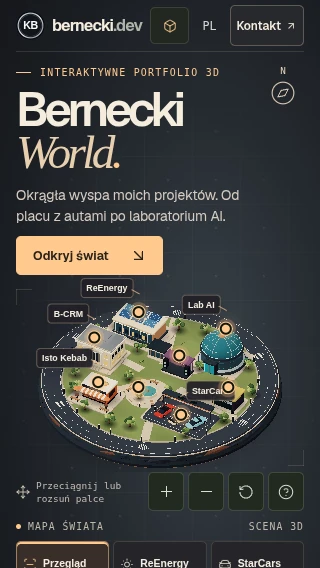
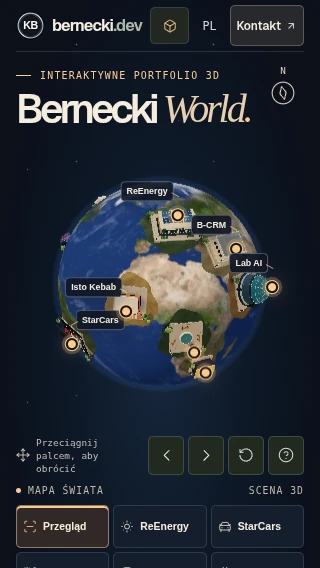
Record globe controls, asset credits and verified screenshots

diff --git a/QUALITY_GATE.md b/QUALITY_GATE.md
@@ -1,41 +1,36 @@
 # Bernecki World — bramka jakości
 
-**92/100.** Ocena obejmuje przebudowaną, okrągłą wyspę. W galerii zrzutów są kadry ze wszystkich sześciu rozdzielczości oraz zbliżenia miejsc. [Kadry z buildu produkcyjnego](docs/world/README.md#kadry-z-buildu-produkcyjnego)
+**92/100.** Ocena dotyczy wydania z globem 3D, obrotem wokół jego środka i zbliżeniem po wybraniu miejsca. [Kadry produkcyjne](docs/world/README.md#kadry-z-buildu-produkcyjnego)
 
 | Obszar | Ocena | Podstawa |
 | --- | ---: | --- |
-| Kierunek artystyczny | 14/15 | Okrągła podstawa, kamień, asfalt, metal i ciepłe oznaczenia tworzą spójną makietę. Rozkład miejsc sprawdzono na sześciu rozdzielczościach. |
-| Efekt pierwszego wejścia | 14/15 | Pierwszy kadr pokazuje całą wyspę. Panele słoneczne, auta, budka i kopuła są czytelne już z góry. |
-| Świat 3D | 15/15 | Sześć projektów ma osobne modele i kadry. Laboratorium i poruszający się pluszak mają własne miejsca. Każdą główną lokalizację można otworzyć bezpośrednio z modelu. |
-| Animacja i kamera | 13/15 | Osobne ujęcia projektów, reset do widoku wyspy i śledzenie pozycji pluszaka sprawdzono w przeglądarce. Ruch na desktopie bez GPU jest skokowy. |
-| Interakcje i UX | 10/10 | Kliknięcia modeli, etykiety, mapa, skróty klawiaturowe, karty i wybór sposobu przeglądania działają w testach. |
-| Mobile | 9/10 | Obrót dotykiem, pinch, otwieranie kart i widok statyczny sprawdzono. Przy szerokości 320 px dalsza część mapy wymaga przewinięcia. |
-| Wydajność i stabilność | 7/10 | Jedna tekstura szyldów, scalone powierzchnie, niższa rozdzielczość podczas ruchu na wolnym sprzęcie i pełny widok statyczny. Profil Pixel 7 osiągnął około 25 FPS, a profil iPhone 13 około 54 FPS. |
-| Oryginalność i marka | 5/5 | Autorska makieta z rozpoznawalnymi miejscami dla projektów i pluszową postacią autora. |
-| Funkcjonalność biznesowa | 5/5 | Sześć rzeczywistych projektów, potwierdzone opisy, materiały i linki. ReEnergy ma osobne ścieżki do strony, kampanii i CRM. |
-
-Niezależny przegląd porównał makietę, kadry poszczególnych miejsc i telefon. Po przeglądzie skorygowano prowadzenie kamery za pluszakiem i położenie etykiet mobilnych oraz sprawdzono nową grafikę statyczną.
+| Kierunek artystyczny | 14/15 | Ciemne tło, satelitarna mapa z chmurami i atmosfera kuli. Siedem kadrów sprawdzono w rzeczywistej przeglądarce. |
+| Efekt pierwszego wejścia | 14/15 | Cała planeta w środku kadru, z rozpoznawalnymi miejscami i zaproszeniem do obrotu. |
+| Świat 3D | 14/15 | Miejsca mają geometrię na całej powierzchni kuli. Auta wykorzystują szczegółowe siatki, a zabudowa i ruchomy miś mają formę stylizowanych miniatur. |
+| Animacja i kamera | 14/15 | Obrót zachowuje środek i skalę. Animowany przelot do miejsca po drugiej stronie globu oraz powrót do centrum przeszły testy. |
+| Interakcje i UX | 10/10 | Mysz, dotyk, klawiatura, kliknięcie modelu, karty, obrót, przełącznik trybów i dostęp do projektów bez WebGL działają. |
+| Mobile | 9/10 | Glob zachowuje środek w testowanych rozmiarach, a wybór miejsca działa dotykiem. Na najmniejszym ekranie do dalszych pozycji mapy dociera się przewijaniem. |
+| Wydajność i stabilność | 7/10 | Szczegółowe auta są ładowane przy wyborze StarCars i pojawiają się po przelocie. Oświetlenie globu jest uproszczone w rendererze programowym. Płynność zależy od profilu przeglądarki. |
+| Oryginalność i marka | 5/5 | Autorskie miejsca, portret pluszaka oparty na zdjęciu właściciela, geometryczne detale misia i ruch na placu. |
+| Funkcjonalność biznesowa | 5/5 | Sześć rzeczywistych realizacji, materiały z portfolio, linki do usług i kontakt. |
 
 ## Weryfikacja
 
 - Build produkcyjny, TypeScript, 355 testów Vitest i weryfikacja PL/EN przeszły. ESLint zgłosił 0 błędów i 15 istniejących ostrzeżeń poza zmianą.
-- Playwright w Chromium sprawdził kliknięcie modeli ośmiu miejsc, mysz, zoom, reset, klawiaturę, położenie i zbliżenie pluszaka po ruchu, galerię i sześć kart, wybór trybu, kontakt, języki PL/EN/UK, dotyk i pinch. Sprawdzono też ponowne uruchomienie oraz przejście do widoku statycznego po utracie WebGL.
-- W profilu iPhone 13 silnik WebKit WPE uruchomił scenę i pozwolił otworzyć projekt dotykiem. Sprawdzono szerokości od 320 do 1920 px i pełny profil renderowania w Chromium. Profil z ograniczoną rozdzielczością wraca do ostrego obrazu po zakończeniu ruchu.
-- Axe sprawdził WCAG 2.1 A i AA w przeglądzie każdego języka i nie wykrył naruszeń. Sprawdzono 41 tras, w tym metadane, adresy kanoniczne, hreflang, sitemap i robots.txt. Sześć zewnętrznych adresów projektów zwróciło HTTP 200.
+- Playwright sprawdził środek i skalę globu po obrocie, brak zoomu kółkiem, katalog przy stałym kadrze, kliknięcie modelu ReEnergy, animowany przelot do BeatMarket oraz powrót. Sprawdzono osiem głównych lokacji, ruch pluszaka, wczytanie GLB samochodów i tekstury asfaltu, tryb dotykowy, siedem rozmiarów i widok bez WebGL.
+- W profilu iPhone 13 w WebKit WPE uruchomiono widok angielski i otwarto projekt dotykiem. Tryby Classic i Interactive oraz 41 tras, metadane, sitemap i adresy kanoniczne przeszły testy. Axe zwrócił 0 naruszeń w przeglądzie sceny dla PL, EN i UK.
 
 ## Pomiary
 
-Lokalny build produkcyjny z kodu `27e0ee5`, Linux bez udostępnionego GPU, Chromium 156 ze SwiftShader i WebKit WPE 27.2. FPS to mediana aktualizacji położenia znacznika w sześciu przejściach do Laboratorium AI, ReEnergy, StarCars i z powrotem. Czas pierwszej klatki liczono od nawigacji do pierwszej oznaczonej klatki WebGL.
+Lokalny build produkcyjny z kodu `c8a86fc`. Linux bez udostępnionego GPU, Chromium 156 ze SwiftShader i WebKit WPE 27.2. FPS to mediana z sześciu przejść między przeglądem a zbliżeniami. Czas pierwszej klatki liczono od nawigacji do pierwszej oznaczonej klatki WebGL.
 
 | Profil | Pierwsza klatka 3D | Mediana podczas ruchu |
 | --- | ---: | ---: |
-| Chromium, 1440 × 900 | 3,30 s | 6,3 FPS |
-| Chromium, Pixel 7 | 2,10 s | 24,7 FPS |
-| WebKit, 1440 × 900 | 2,61 s | 8,7 FPS |
-| WebKit, iPhone 13 | 1,02 s | 54,4 FPS |
+| Chromium, 1440 × 900 | 4,02 s | 8,2 FPS |
+| Chromium, Pixel 7 | 2,30 s | 19,0 FPS |
+| WebKit, 1440 × 900 | 2,63 s | 13,4 FPS |
+| WebKit, iPhone 13 | 1,69 s | 52,9 FPS |
 
-Po ograniczeniu rozdzielczości kamery na wolnych rendererach mediana desktopowego WebKit wzrosła z około 1,6 do 8,7 FPS w tym samym scenariuszu. W Chromium łącznie pobrano około 323 kB skompresowanego JavaScriptu i 190 kB obrazów sceny.
+Chromium pobrał około 332 kB skompresowanego JavaScriptu i 516 kB obrazów przed wejściem do StarCars. Model samochodu ma 549 kB i jest pobierany na żądanie. Płynność na fizycznych telefonach i komputerze z GPU pozostaje do zmierzenia.
 
-Lighthouse 13.6 w symulacji mobilnej dał **60 Performance, 100 Accessibility, 100 Best Practices i 100 SEO**. FCP 0,92 s, LCP 3,62 s, TBT 2,27 s i CLS 0,003.
-
-Wyniki dotyczą profili przeglądarek bez fizycznego GPU. Płynność na komputerze z GPU oraz na fizycznym iPhonie i telefonie z Androidem pozostaje niezweryfikowana. Widok statyczny zachowuje projekty, usługi, kontakt i wybór trybu.
+Lighthouse 13.6.0 w profilu mobilnym dał **61 Performance, 100 Accessibility, 100 Best Practices i 100 SEO**. FCP 0,92 s, LCP 3,32 s, TBT 5,61 s i CLS 0,003.

diff --git a/docs/world/README.md b/docs/world/README.md
@@ -1,8 +1,8 @@
 # Bernecki World
 
-Świat jest dostępny pod adresami `/world`, `/en/world` i `/uk/world`. W klasycznej stronie przycisk „Świat 3D” otwiera wybór trybu z dwoma podglądami. Wejście prosto na stronę klasyczną pozostaje dostępne w każdym języku.
+Świat jest dostępny pod adresami `/world`, `/en/world` i `/uk/world`. Przeciągnięcie myszą lub palcem obraca planetę przy stałym środku i skali. Katalog projektów pokazuje nadal cały glob. Wybranie miejsca z modelu, mapy lub klawiatury uruchamia przelot i zbliżenie. W klasycznej stronie przycisk „Świat 3D” otwiera wybór trybu z dwoma podglądami.
 
-## Miejsca na wyspie
+## Miejsca na planecie
 
 | Miejsce | Co otwiera |
 | --- | --- |
@@ -15,7 +15,7 @@
 | Scena BeatMarket | Platforma producentów i odsłuch beatów |
 | Pluszowy przewodnik Kacper | Informacje o autorze i ścieżka współpracy |
 
-Przyciski na mapie, kliknięcia obiektów i linki `#project-*` prowadzą do tych samych kart i zbliżeń. Etykieta Kacpra śledzi postać podczas poruszania klawiszami W, A, S, D lub kliknięciem alejki na placu.
+Przyciski na mapie, kliknięcia obiektów i linki `#project-*` prowadzą do tych samych kart i zbliżeń. Miejsca rozmieszczono dla kompozycji globu i odkrywania jego drugiej strony. Etykieta Kacpra śledzi postać podczas poruszania klawiszami W, A, S, D lub kliknięciem alejki na placu.
 
 ## Kadry z buildu produkcyjnego
 
@@ -26,12 +26,14 @@ Przyciski na mapie, kliknięcia obiektów i linki `#project-*` prowadzą do tych
 | 1024 × 768 | [Przegląd](screenshots/1024x768.webp) |
 | 768 × 1024 | [Przegląd](screenshots/768x1024.webp) |
 | 390 × 844 | [Przegląd](screenshots/390x844.webp) |
+| 390 × 664 | [Przegląd](screenshots/390x664.webp) |
 | 320 × 568 | [Przegląd](screenshots/320x568.webp) |
 
 - [Pełny profil renderowania, 1440 × 900](screenshots/full-quality-1440.webp)
 - [Panele słoneczne i karta ReEnergy](screenshots/reenergy.webp)
 - [Zbliżenie i karta StarCars na komputerze](screenshots/project-1440.webp)
-- [Karta StarCars na telefonie](screenshots/project-390.webp)
+- [Plac StarCars na telefonie](screenshots/starcars-mobile.webp)
+- [Karta Isto Kebab w widoku dotykowym](screenshots/project-390.webp)
 - [Budka Isto Kebab](screenshots/isto-kebab.webp)
 - [Budynek B-CRM](screenshots/b-crm.webp)
 - [Kopuła Laboratorium AI](screenshots/lab.webp)
@@ -51,6 +53,13 @@ npm ci
 npm run dev
 ```
 
-Scena wczytuje się dynamicznie na trasach World. Okrągła makieta powstaje z modelu proceduralnego Three.js. Wszystkie szyldy korzystają z jednej tekstury, a w profilu programowym statyczne oświetlenie powierzchni jest zapisane w geometrii. Na wolnym sprzęcie rozdzielczość bufora zmniejsza się tylko na czas ruchu kamery. Karty wykorzystują zrzuty i potwierdzony zakres istniejących realizacji. Atlas HDR powstał z `RoomEnvironment` Three.js przy rozmiarze ściany 128 px i rozmyciu 0,025 rad. Atlas CubeUV zapisano w WebP z mantysami w RGB i wspólnym wykładnikiem w kanale alfa.
+Scena wczytuje się dynamicznie na trasach World. Kula Three.js ma teksturę satelitarną i atmosferę. Każda lokalizacja ma własny układ współrzędnych styczny do kuli. Kamera najpierw odsuwa się od aktywnego miejsca, przemieszcza po zewnętrznym łuku i zbliża do celu od strony powierzchni. Na wolnym sprzęcie rozdzielczość bufora zmniejsza się podczas ruchu. Karty wykorzystują zrzuty i potwierdzony zakres istniejących realizacji.
+
+## Źródła modeli i tekstur
+
+- **Ziemia i chmury.** `planet-earth.webp` łączy mapę dzienną i mapę chmur Solar System Scope opartą na danych NASA, w tym Blue Marble. Zmieniono kolor i krycie chmur oraz zapisano wynik w WebP. [Solar System Scope](https://www.solarsystemscope.com/textures/) · [CC BY 4.0](https://creativecommons.org/licenses/by/4.0/)
+- **Samochody.** `starcars-supercar.glb` to zoptymalizowany wariant LOD1 modelu Mid-Engine Supercar v2. Scena używa trzech wariantów lakieru i pobiera model przy wejściu do StarCars. [tevy](https://tevy.dev/models/supercar) · [CC0 1.0](https://creativecommons.org/publicdomain/zero/1.0/)
+- **Asfalt.** `starcars-asphalt.webp` wykorzystuje mapę koloru Asphalt 012 z ambientCG. [ambientCG](https://ambientcg.com/view?id=Asphalt012) · [CC0 1.0](https://creativecommons.org/publicdomain/zero/1.0/)
+- **Kacper.** Pluszowy portret powstał w ImageGen na podstawie portretu właściciela z portfolio. Model 3D odtwarza zaczesane włosy, zarost, marynarkę i skrzyżowane ręce.
 
 Sterowanie i ustawienie widoku statycznego są dostępne pod przyciskiem pomocy w scenie. Pełny raport sprawdzeń znajduje się w [QUALITY_GATE.md](../../QUALITY_GATE.md), a aktualny stan wydania w [HEARTBEAT.md](../../HEARTBEAT.md).

diff --git a/HEARTBEAT.md b/HEARTBEAT.md
@@ -1,7 +1,7 @@
 # Bernecki World — stan prac
 
-- Etap — przebudowana okrągła wyspa po końcowych sprawdzeniach, wydanie do przeglądu na `feat/bernecki-world`. [PR #116](https://github.com/ft4k696bk6-prog/kacper-portfolio/pull/116)
-- Ukończone — dedykowane modele i kadry sześciu projektów, Laboratorium AI, pluszowy przewodnik, PL/EN/UK, przełączanie trybów i widok statyczny.
-- Ostatnia zmiana — scalono szyldy oraz fragmenty pluszaka. Renderer przywraca pełną ostrość, po zatrzymaniu kamery na słabszym sprzęcie.
-- Ocena — 92/100 w wewnętrznej bramce. [Pomiary i testy](QUALITY_GATE.md)
-- Otwarte — pomiary na fizycznych telefonach i komputerze z GPU.
+- Etap — wydanie z planetą gotowe do przeglądu na `feat/bernecki-world`. [PR #116](https://github.com/ft4k696bk6-prog/kacper-portfolio/pull/116)
+- Ukończone — satelitarny glob z obrotem wokół środka, przeloty do projektów, spersonalizowany pluszak w 3D i na portrecie, szczegółowe auta w StarCars, PL/EN/UK i statyczny glob.
+- Testy — build, 355 testów, siedem rozmiarów ekranu, obrót i wybór miejsca, przelot na drugą stronę, widok bez WebGL i 41 odpowiedzi HTTP 200.
+- Ocena — 92/100. [Pomiary i ograniczenia](QUALITY_GATE.md)
+- Otwarte — pomiary na fizycznych telefonach i przy sprzętowym GPU.
